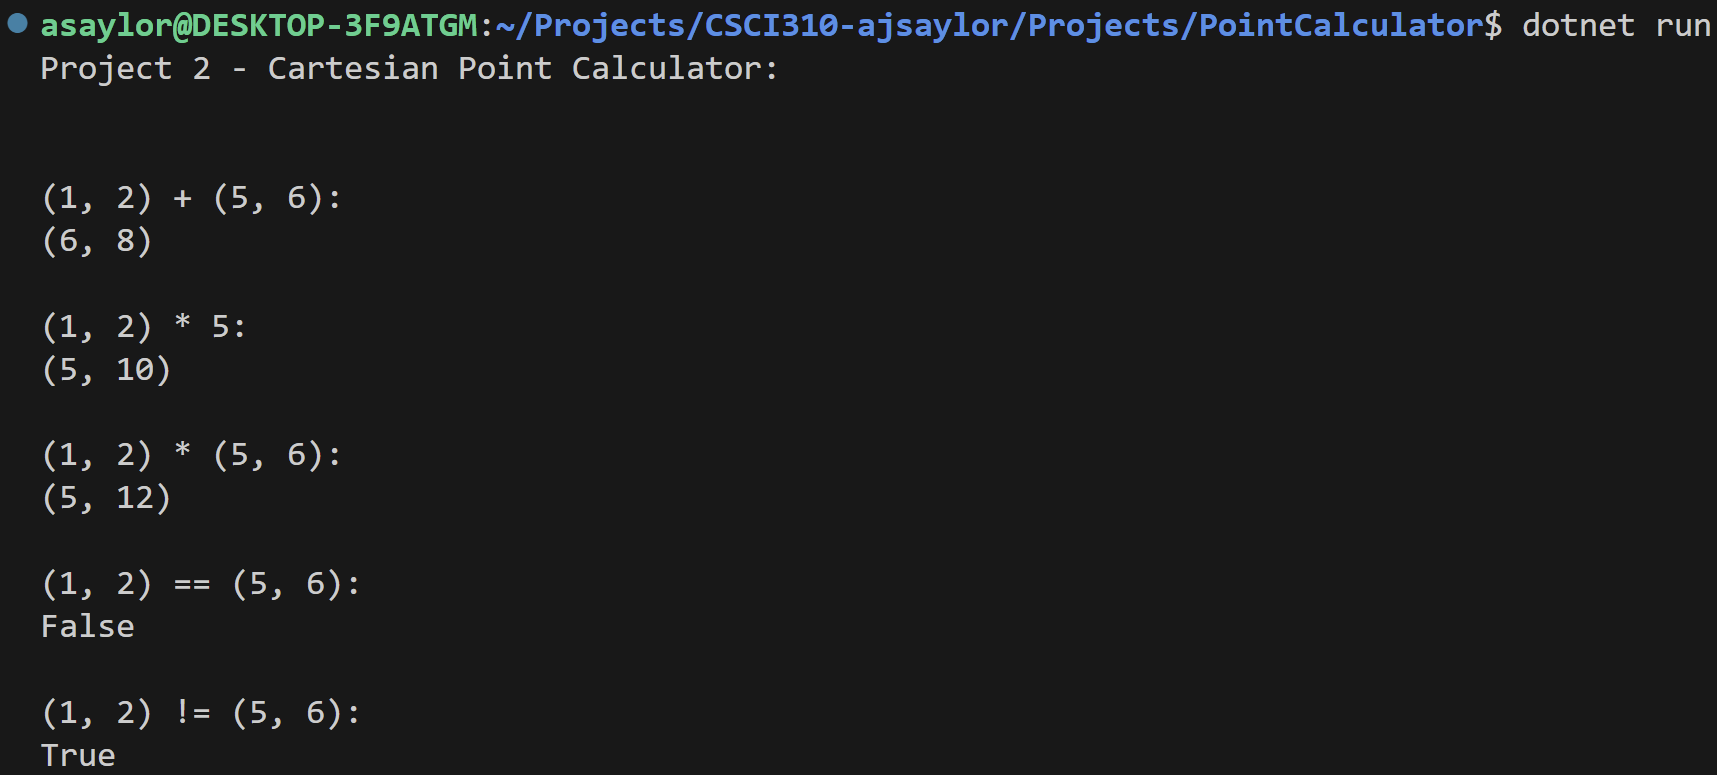
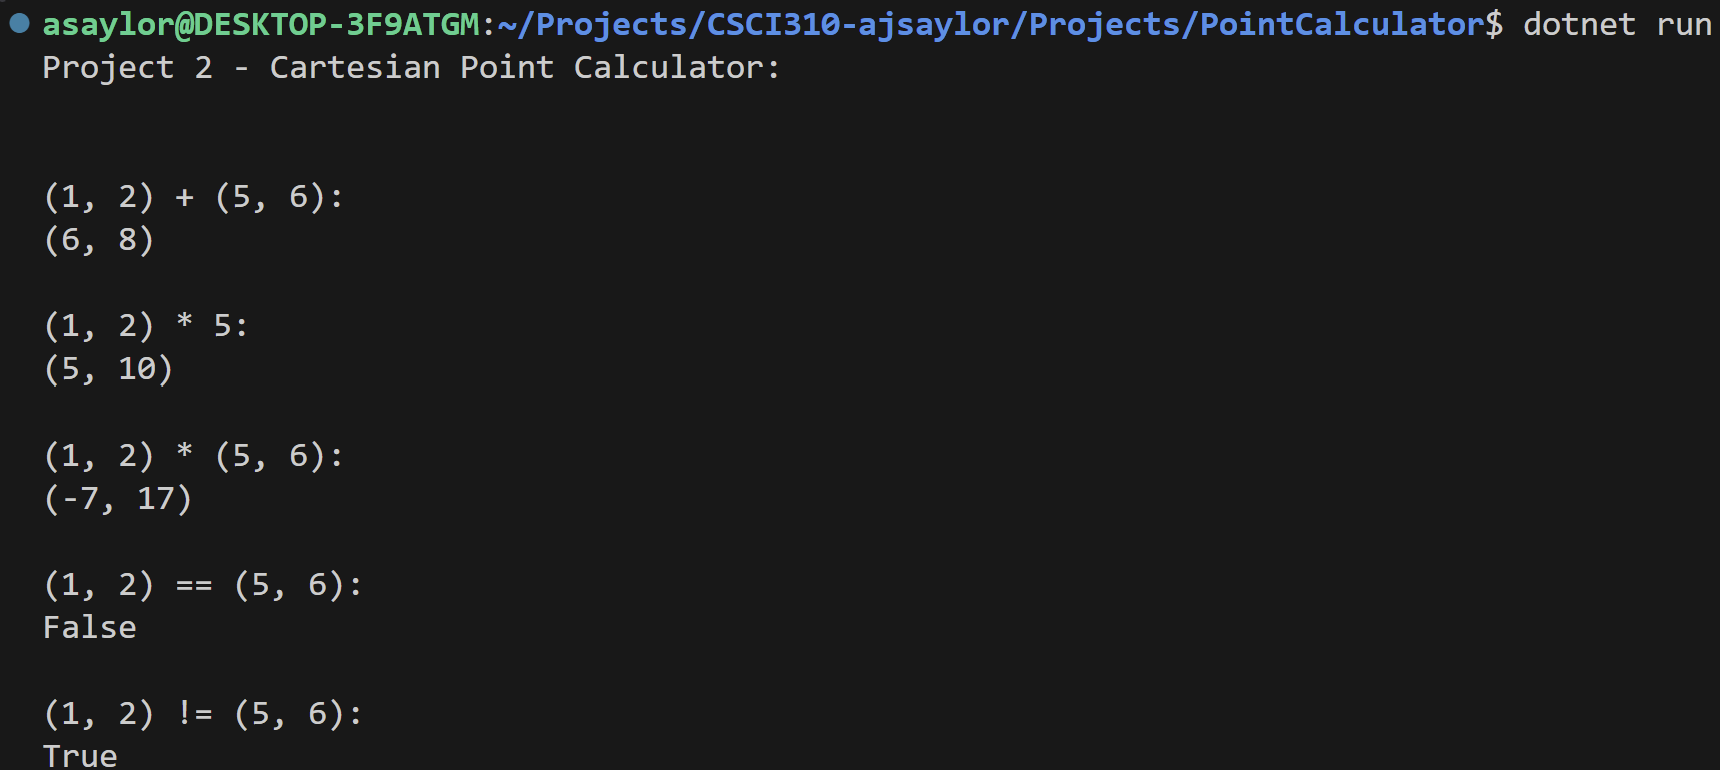
Project 2 submission - v2

diff --git a/Projects/PointCalculator/PointCalculator.cs b/Projects/PointCalculator/PointCalculator.cs
@@ -63,8 +63,9 @@ namespace PointCalc
 
             Point newPoint = new Point(0, 0);
 
-            newX = A.X * B.X;
-            newY = A.Y * B.Y;
+            // (A, B) * (C, D) = ((A*C-B*D), (A*C+B*D))
+            newX = ((A.X * B.X) - (A.Y * B.Y));
+            newY = ((A.X * B.X) + (A.Y * B.Y));
 
             newPoint.X = newX;
             newPoint.Y = newY;
@@ -132,7 +133,7 @@ namespace PointCalc
             mult_factor.PrintPoint(); // Output = (5, 10)
 
             Console.WriteLine($"\n{point1} * {point2}:");
-            mult_points.PrintPoint(); // Output = (5, 12)
+            mult_points.PrintPoint(); // Output = (-7, 17)
 
             Console.WriteLine($"\n{point1} == {point2}:");
             Console.WriteLine(equality.ToString()); // False
